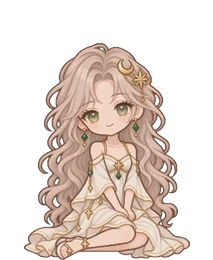
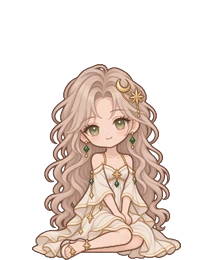
Add files via upload

diff --git a/eu.js b/eu.js
@@ -101,7 +101,7 @@
   var ME='https://euddddd.github.io/portfolio/'+o.pre;
   var me=document.createElement('div');me.id=o.id;me.className='eu-wk';me.setAttribute('aria-hidden','true');
   var bob=document.createElement('div');bob.className='bob';var fr=document.createElement('div');fr.className='fr';
-  var F={};['walk','side','front','wave','sit','up'].forEach(function(k){var im=document.createElement('img');im.src=ME+k+'.webp';im.alt='';im.draggable=false;fr.appendChild(im);F[k]=im;});
+  var F={};['walk','side','front','wave','sit','up','upl','upr'].forEach(function(k){var im=document.createElement('img');im.src=ME+k+'.webp';im.alt='';im.draggable=false;fr.appendChild(im);F[k]=im;});
   var say=document.createElement('div');say.className='say';
   bob.appendChild(fr);if(o.angry){var ang=document.createElement('span');ang.className='ang';bob.appendChild(ang);}me.appendChild(bob);me.appendChild(say);document.body.appendChild(me);
   var cur=null;function show(k){if(cur===k)return;if(cur)F[cur].classList.remove('on');F[k].classList.add('on');cur=k;}
@@ -152,7 +152,7 @@
     if(sp>=Math.abs(tx-x)){x=tx;me.classList.remove('walking');mode='idle';show('front');until=now+1800+Math.random()*2500;}
     else{x+=dir*sp; if(now>stepT){step=1-step;stepT=now+260;show(step?'walk':'side');}}
    }else if(mode==='fall'){vy+=2600*dt;lift-=vy*dt;if(0>=lift)land();
-   }else if(mode==='held'){
+   }else if(mode==='held'){if(now>stepT){step=(step+1)%4;stepT=now+400;show(['upl','up','upr','up'][step]);}
    }else if(mode!=='talk'&&now>until){pick(now);}
    if(x>maxX())x=maxX(); if(0>x)x=0;
    if(mode==='walk'&&((x>=maxX()&&tx>=x)||(0>=x&&x>=tx))){me.classList.remove('walking');mode='idle';show('front');until=now+1500;}

diff --git a/eu.css b/eu.css
@@ -233,7 +233,7 @@ html.eu-en .eu .crm dl{grid-template-columns:7em minmax(0,1fr)}
 @keyframes eu-ang{0%,100%{transform:scale(.9) rotate(-6deg)}50%{transform:scale(1.12) rotate(6deg)}}
 @media (max-width:600px){.eu-wk .ang,#eu-bur .ang{width:22px!important;height:22px!important}}
 .eu-wk.held{cursor:grabbing}
-.eu-wk.held .fr{transform-origin:50% 8%;animation:eu-dangle 1.6s steps(1) infinite}
+.eu-wk.held .fr{animation:none}
 @keyframes eu-dangle{0%,100%{transform:rotate(-6deg)}25%,75%{transform:none}50%{transform:rotate(6deg)}}
 .eu-wk.held .bob{animation:none}
 @font-face{font-family:'Cubic11';src:url('https://euddddd.github.io/portfolio/Cubic_11.woff2') format('woff2');font-display:swap}
